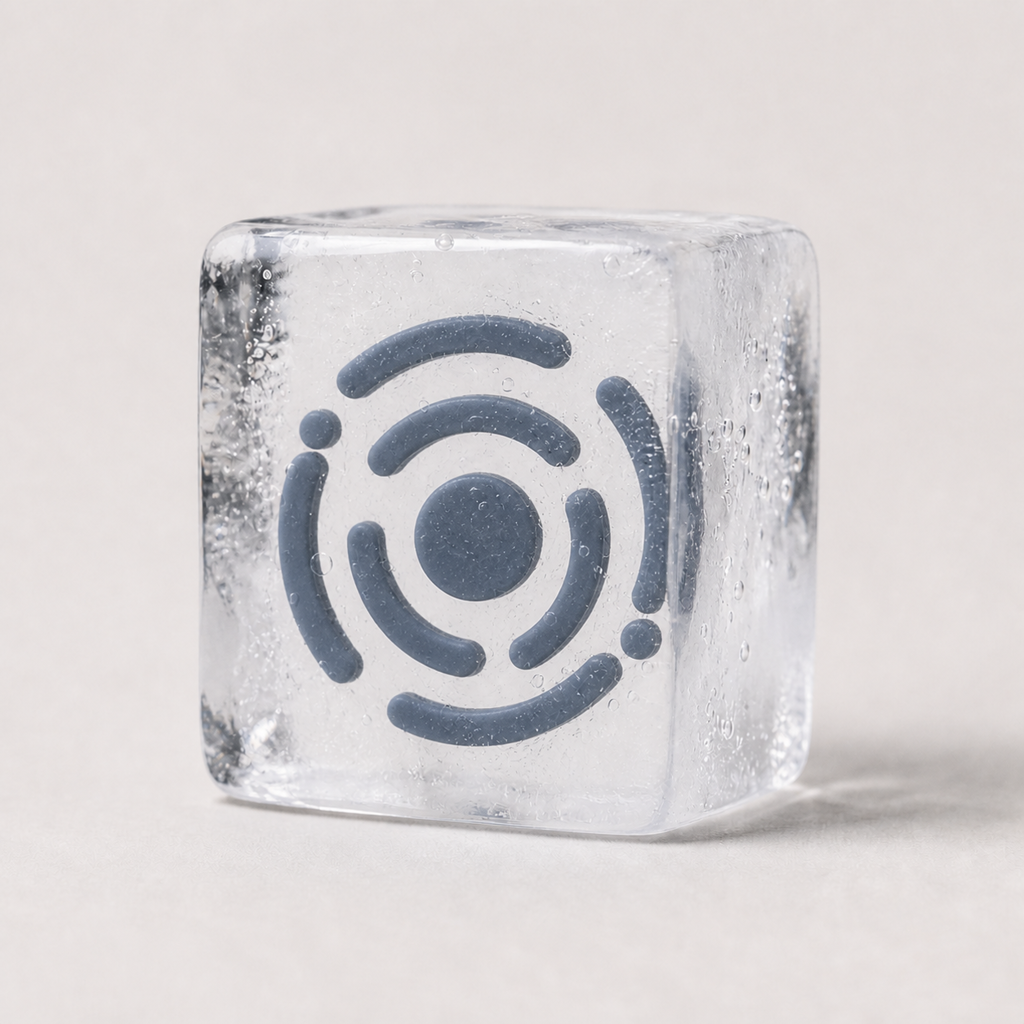
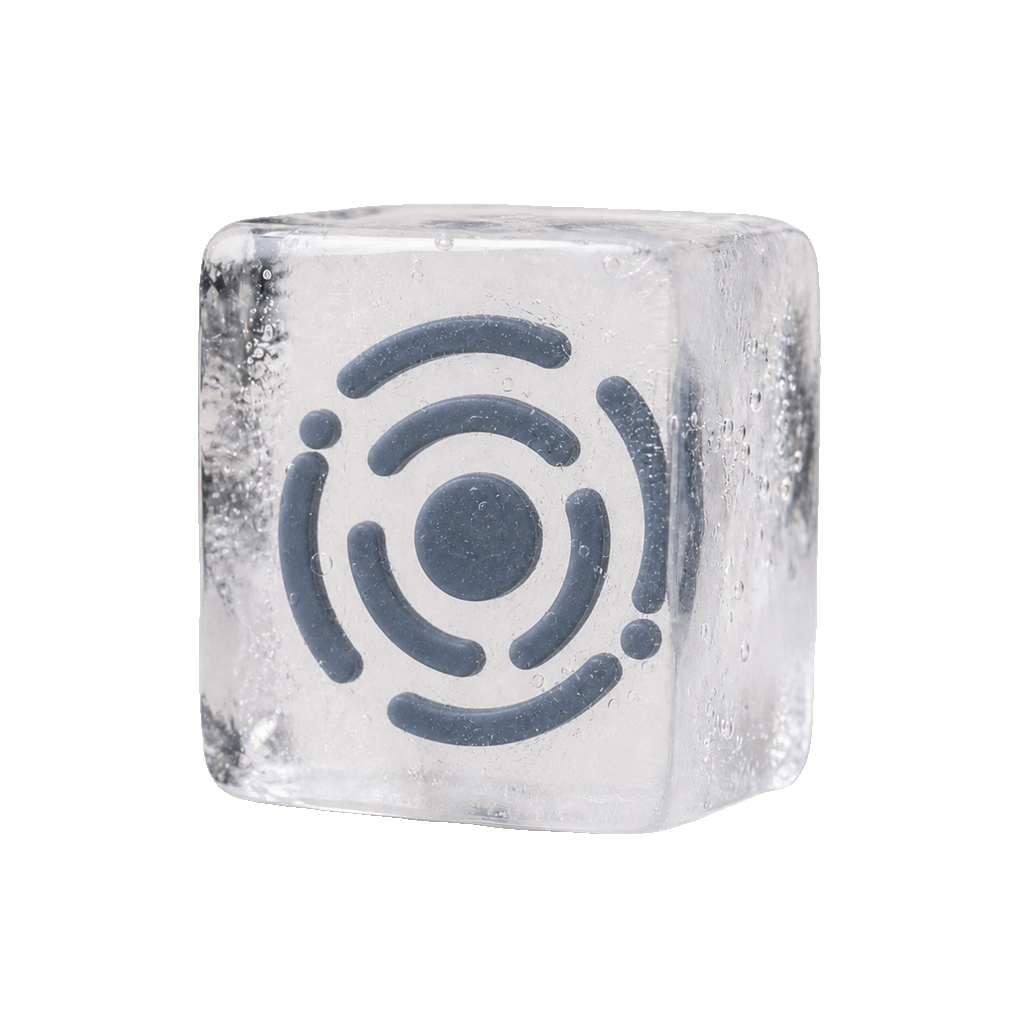
fix(brand): make ice hero background transparent

diff --git a/assets/brand/README.md b/assets/brand/README.md
@@ -7,10 +7,10 @@ The Chaos mark belongs to the shared Heliantheon visual family: geometric constr
 | `mark.svg` | Primary full-color vector mark |
 | `mark-monochrome.svg` | Single-color mark for neutral surfaces |
 | `icon-512.png` | Raster icon for platforms that do not accept SVG |
-| `hero-ice.png` | Ice-block hero for README and promotional use |
+| `hero-ice.png` | Transparent ice-block hero for README and promotional use |
 
 - Accent: `#545D6B`
 - Keep clear space around the mark equal to at least one eighth of its width.
 - Do not stretch, rotate, recolor, add effects, or combine the mark with another product emblem.
 - Prefer the primary mark on white or very light neutral backgrounds; use the monochrome mark when color is unavailable.
-- Use the ice-block hero at 256 px or larger; do not use it as a favicon or small interface icon.
+- Use the ice-block hero at 256 px or larger, keep its canvas transparent, and do not use it as a favicon or small interface icon.
